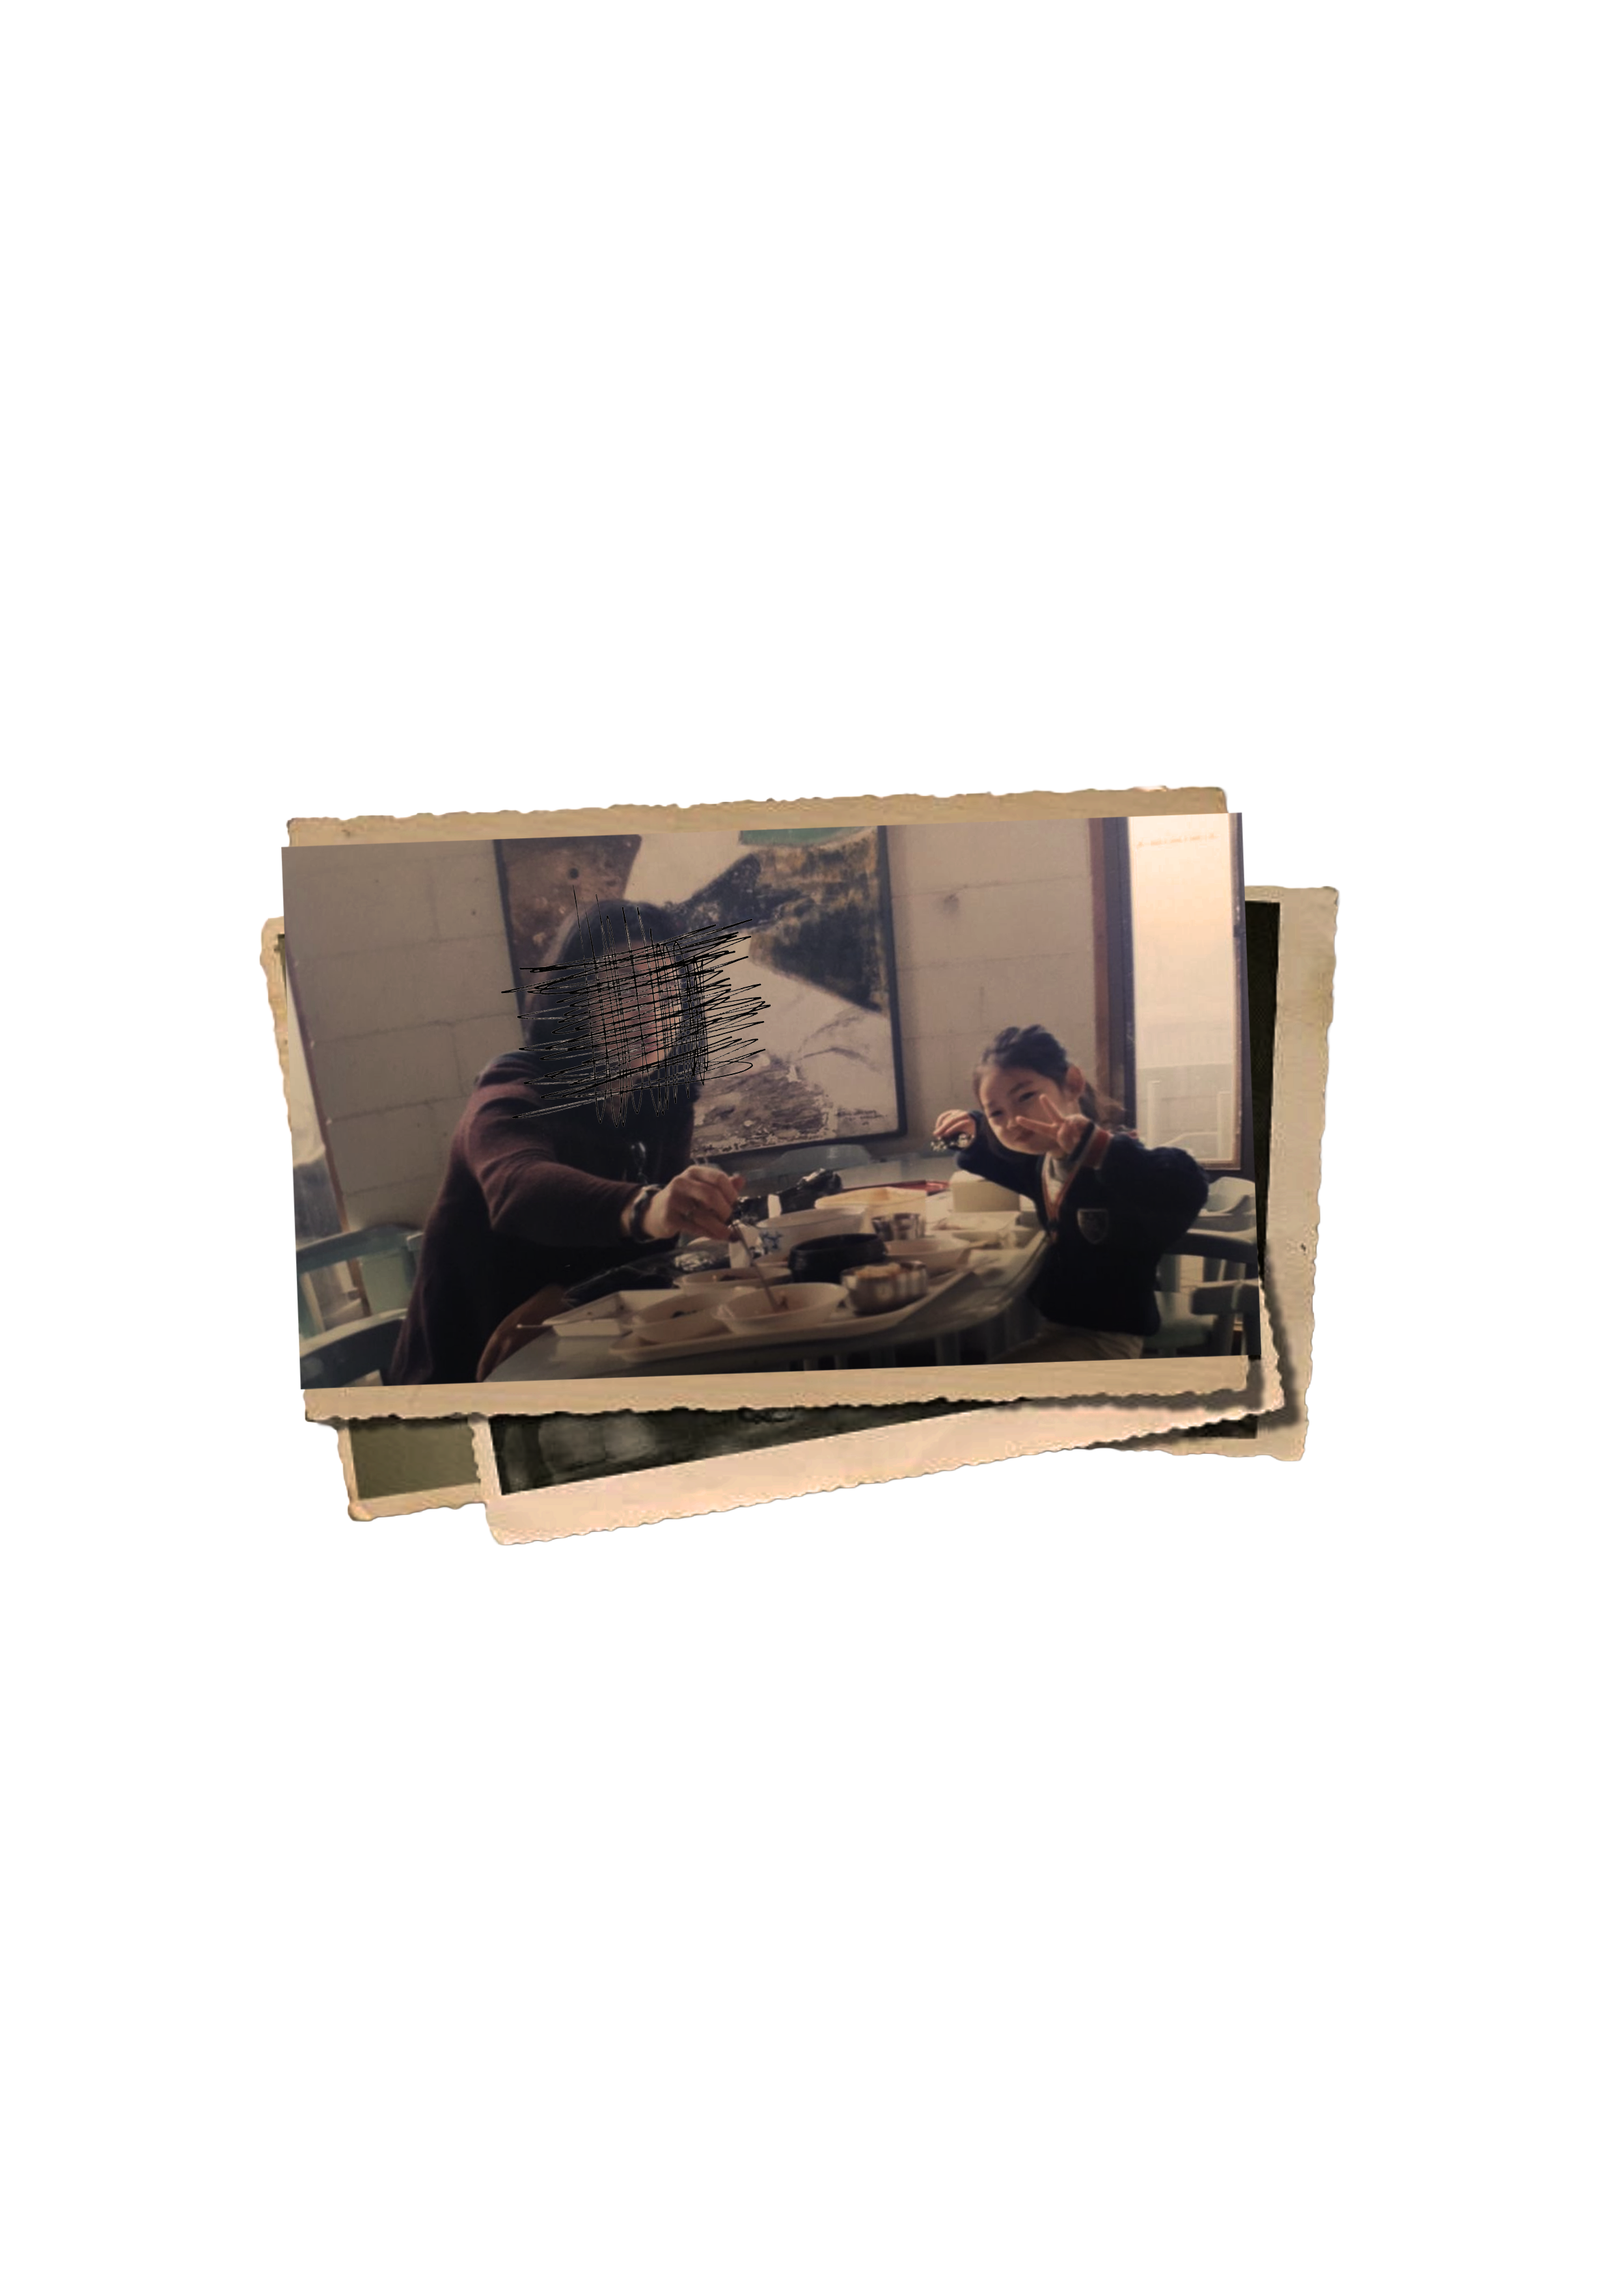
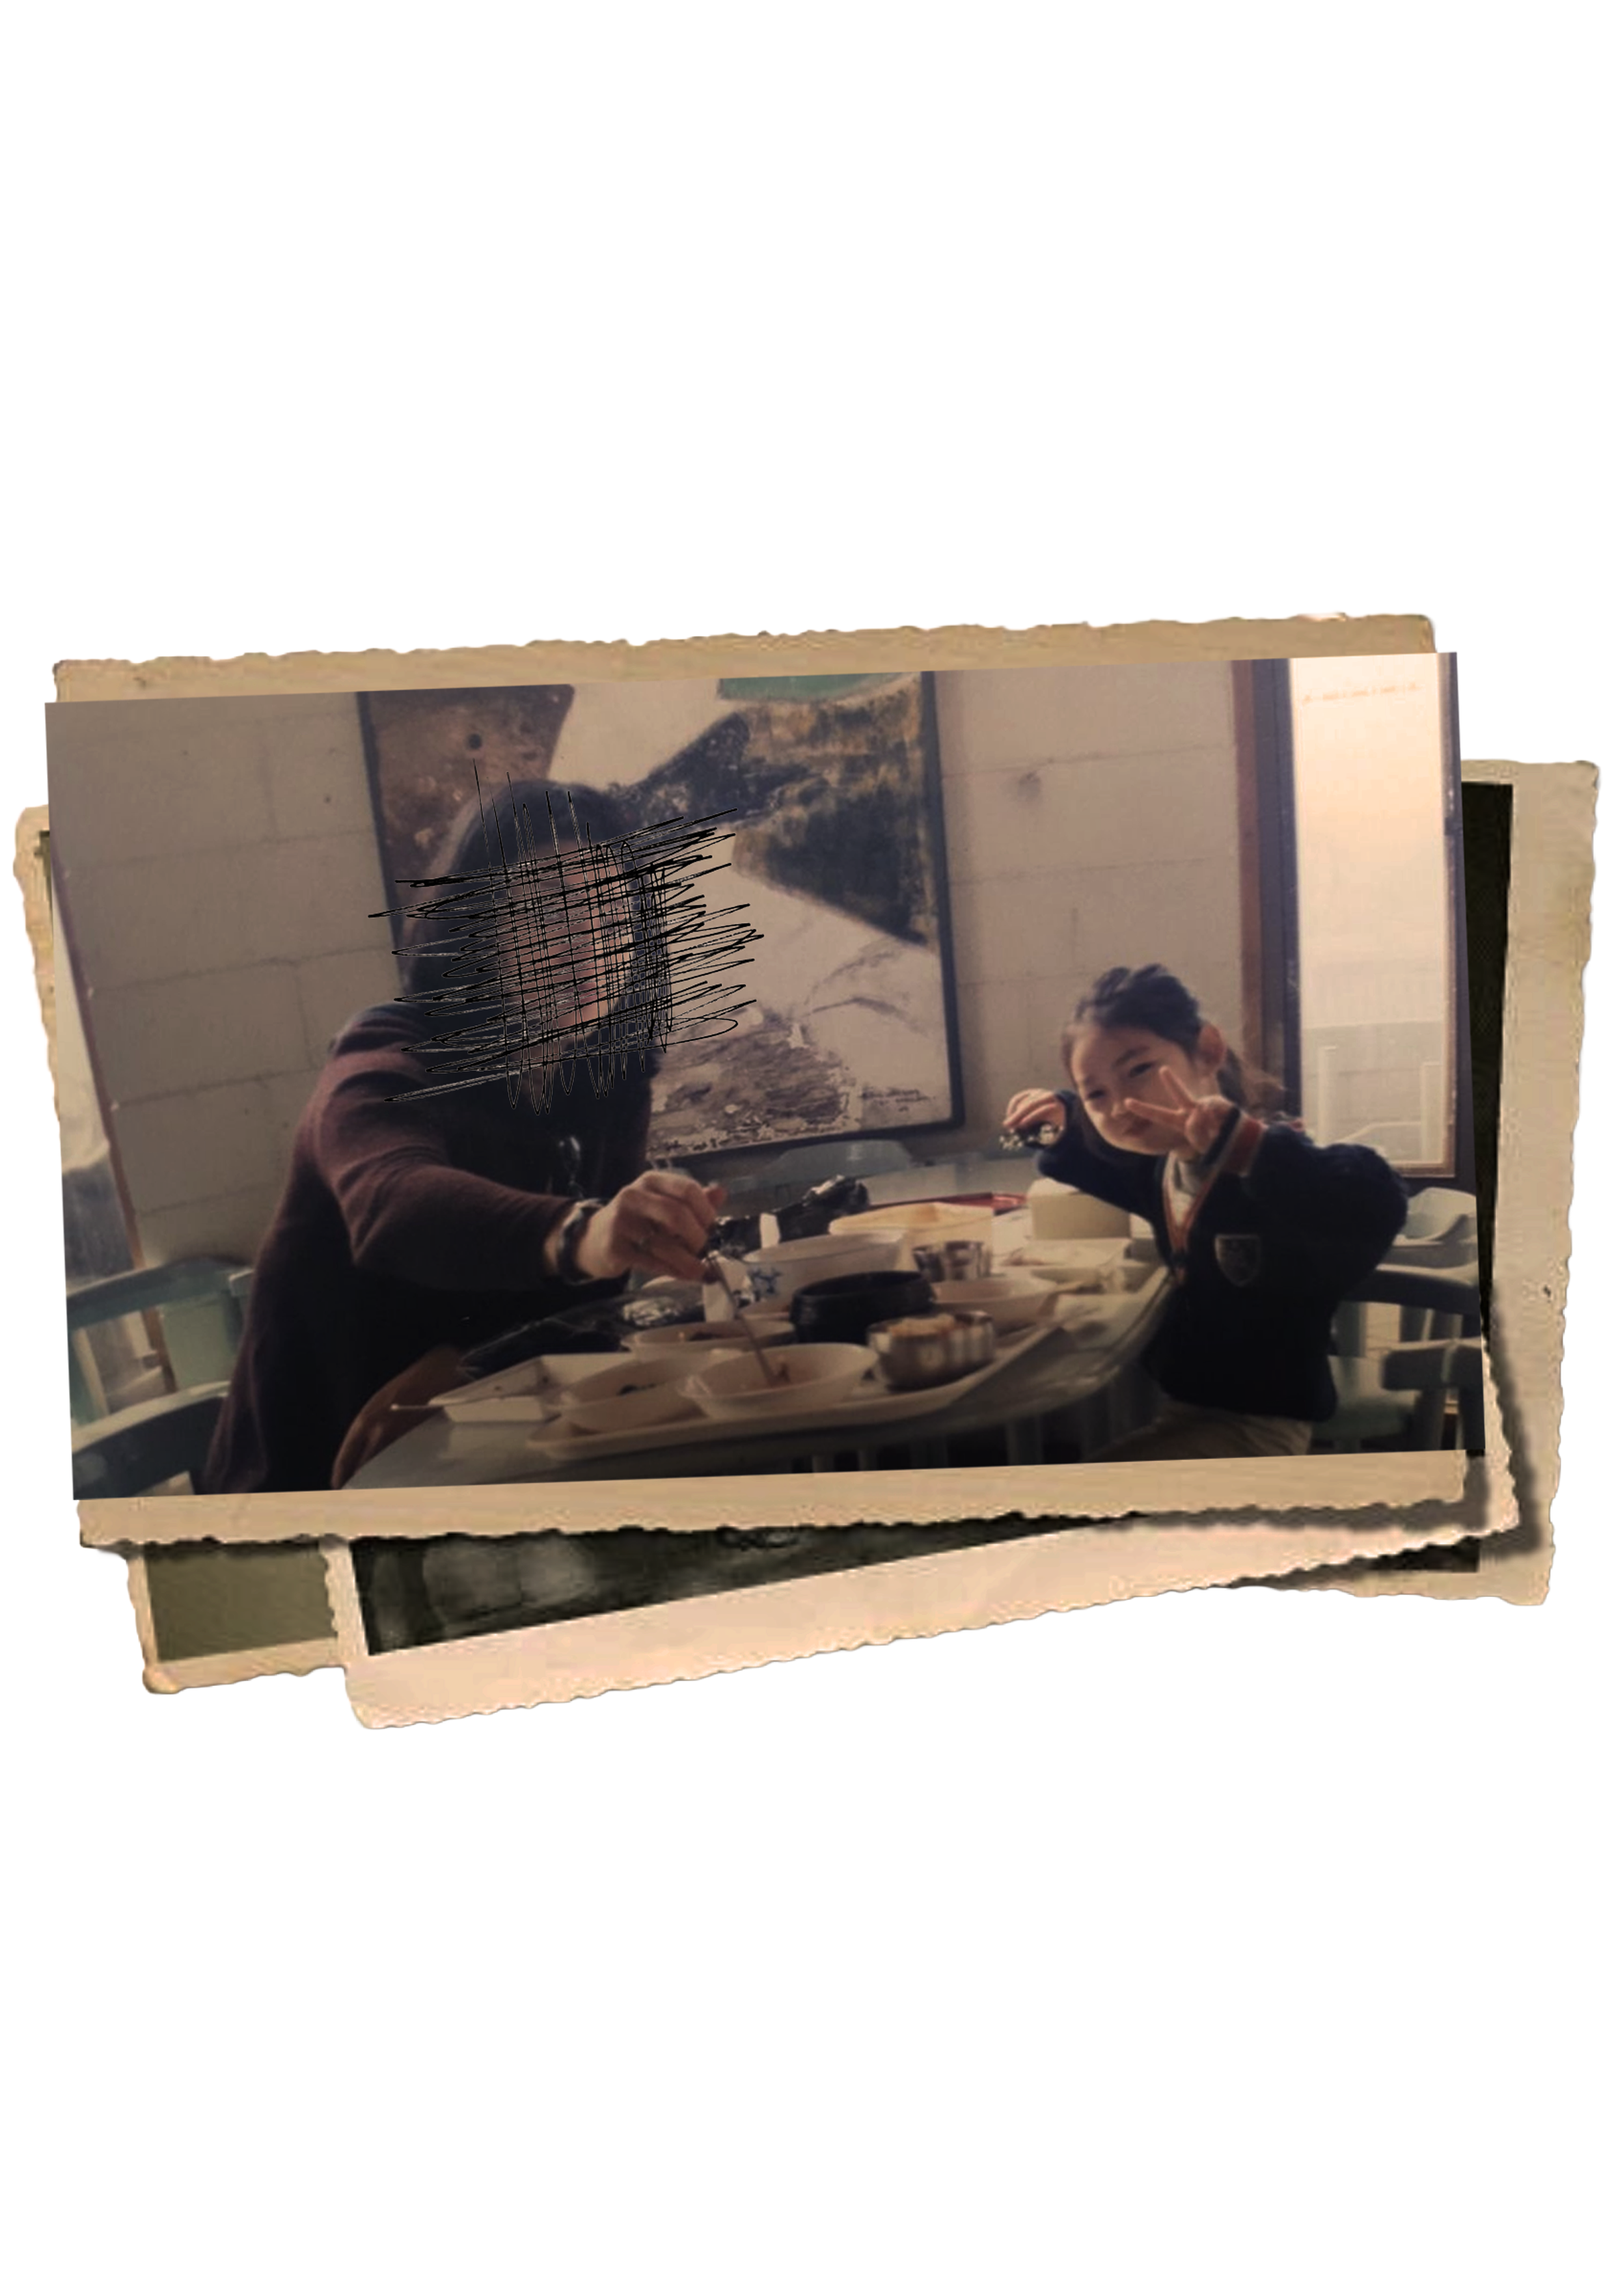
edit diary page of home html

diff --git a/css/style.css b/css/style.css
@@ -120,14 +120,11 @@ body {
 }
 
 /* =========================================
-   4. HERO SECTION
+   4. HERO SECTION (CLEAN VERSION)
    ========================================= */
 .hero-immersive {
     height: 90vh;
-    background: 
-        linear-gradient(rgba(0,0,0,0.8), rgba(0,0,0,0.8)),
-        url('https://www.transparenttextures.com/patterns/dark-matter.png'), 
-        #1a1a1a;
+    background: #000; /* Solid black background */
     display: flex;
     flex-direction: column;
     justify-content: center;
@@ -137,40 +134,42 @@ body {
     position: relative;
 }
 
+/* Remove the before pseudo-element (texture overlay) */
 .hero-immersive::before {
-    content: '';
-    position: absolute;
-    top: 0;
-    left: 0;
-    right: 0;
-    bottom: 0;
-    background: url('https://www.transparenttextures.com/patterns/black-paper.png');
-    opacity: 0.2;
-    pointer-events: none;
+    display: none;
 }
 
 .title-horror {
     font-family: 'Permanent Marker', cursive;
-    font-size: 4rem;
+    font-size: 4.5rem; /* Slightly larger */
     color: #b30000;
-    line-height: 0.8;
-    margin: 20px 0;
-    text-shadow: 2px 2px 10px rgba(0,0,0,0.8);
+    line-height: 0.85;
+    margin: 20px 0 10px 0; /* Less bottom margin */
+    text-shadow: 3px 3px 15px rgba(0,0,0,0.9);
+    letter-spacing: 1px;
 }
 
-/* =========================================
-   5. BUTTONS
-   ========================================= */
+.developer-text {
+    font-family: 'Special Elite', serif;
+    font-size: 0.8rem;
+    letter-spacing: 3px;
+    color: #888;
+    margin-bottom: 30px;
+    text-transform: uppercase;
+}
+
 .btn-horror {
     background: transparent;
     color: #fff;
     border: 1px solid #444;
     padding: 12px 40px;
     border-radius: 30px;
-    margin-top: 20px;
+    font-size: 0.9rem;
     text-transform: uppercase;
     letter-spacing: 2px;
+    cursor: pointer;
     transition: all 0.3s ease;
+    font-family: 'Special Elite', serif;
 }
 
 .btn-horror:hover {
@@ -336,19 +335,41 @@ body {
     display: block;
 }
 
-/* Precise positioning to match your Figma */
+.diary-section {
+    padding: 80px 20px; /* Added more top/bottom padding */
+    background: #050505;
+    text-align: center;
+}
+
+.diary-collage {
+    position: relative;
+    width: 90%; 
+    margin: 0 auto;
+    /* This ensures the section stays tall enough for the scraps */
+    min-height: 500px; 
+}
+
+.paper-base {
+    width: 110%; 
+    margin-left: -5%; 
+    display: block;
+    box-shadow: 10px 10px 30px rgba(0,0,0,0.8);
+}
+
 .photo-top-right {
-    top: -15px;
-    right: -10px;
-    width: 110px;
+    top: -40px;
+    right: -20px;
+    width: 220px; 
     transform: rotate(12deg);
+    z-index: 10;
 }
 
 .photo-bottom-left {
-    bottom: 30px;
-    left: -15px;
-    width: 120px;
-    transform: rotate(-10deg);
+    bottom: 30px; 
+    left: -5px;   
+    width: 140px;
+    transform: rotate(-8deg);
+    z-index: 11;
 }
 
 .lore-hint {
@@ -400,9 +421,15 @@ body {
 
 .scrap {
     position: absolute;
-    /* Remove 'background: #fff;' so the transparency shows through */
-    padding: 0; /* Adjust padding if you want a border, otherwise set to 0 */
-    box-shadow: 4px 4px 15px rgba(0,0,0,0.5);
+    background: transparent; 
+    padding: 0; 
+    border: none; 
+    box-shadow: 4px 4px 15px rgba(0,0,0,0); 
     z-index: 5;
     text-decoration: none;
+}
+
+.scrap img {
+    width: 100%;
+    display: block;
 }

diff --git a/index.html b/index.html
@@ -42,7 +42,7 @@
                 <h2 class="section-subtitle">Explore Through Wei Yi's Diary</h2>
                 
                 <div class="diary-collage">
-                    <img src="images/background/dairy.jpg" class="paper-base" alt="Diary Page">
+            <img src="images/background/dairy.jpg" class="paper-base" alt="Diary Page">
 
                     <a href="#item1" class="scrap photo-top-right" onclick="openLore()">
                         <img src="images/interface/polaroid.png" alt="Memory 1">
